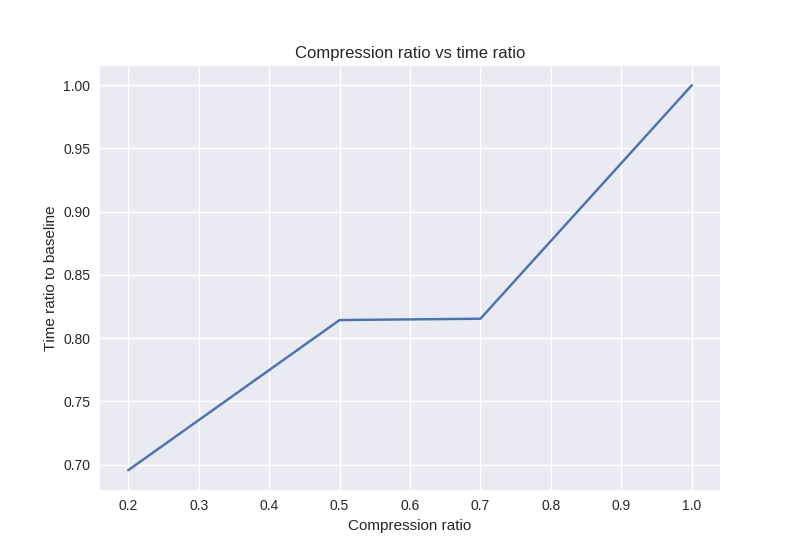
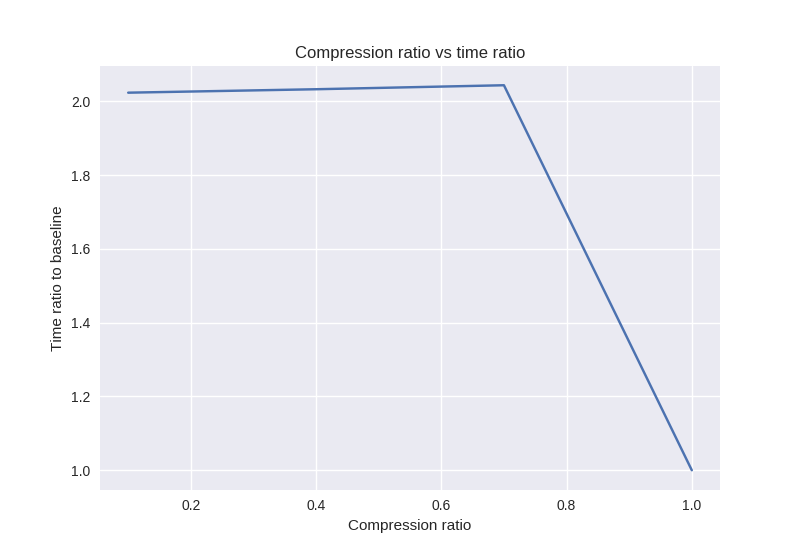
Interim commit: start work on Amazon bloom example.

diff --git a/examples/bloom_embeddings/example.py b/examples/bloom_embeddings/example.py
@@ -1,3 +1,4 @@
+import argparse
 import hashlib
 import json
 import os
@@ -9,6 +10,7 @@ import numpy as np
 from sklearn.model_selection import ParameterSampler
 
 from spotlight.datasets.movielens import get_movielens_dataset
+from spotlight.datasets.amazon import get_amazon_dataset
 from spotlight.cross_validation import user_based_train_test_split
 from spotlight.sequence.implicit import ImplicitSequenceModel
 from spotlight.sequence.representations import LSTMNet
@@ -22,8 +24,8 @@ CUDA = (os.environ.get('CUDA') is not None or
 NUM_SAMPLES = 100
 
 LEARNING_RATES = [1e-4, 5 * 1e-4, 1e-3, 1e-2, 5 * 1e-2, 1e-1]
-LOSSES = ['bpr', 'hinge', 'adaptive_hinge', 'pointwise']
-BATCH_SIZE = [8, 16, 32, 256]
+LOSSES = ['bpr', 'adaptive_hinge']
+BATCH_SIZE = [16, 32, 256]
 EMBEDDING_DIM = [8, 16, 32, 64, 128, 256]
 N_ITER = list(range(5, 20))
 L2 = [1e-6, 1e-5, 1e-4, 1e-3, 1e-2, 0.0]
@@ -43,14 +45,25 @@ class Results:
 
     def save(self, hyperparams, test_mrr, validation_mrr, elapsed):
 
-        result = {'test_mrr': test_mrr,
-                  'validation_mrr': validation_mrr,
-                  'elapsed': elapsed,
-                  'hash': self._hash(hyperparams)}
-        result.update(hyperparams)
+        result = hyperparams.copy()
+
+        result.update({'test_mrr': test_mrr,
+                       'validation_mrr': validation_mrr,
+                       'elapsed': elapsed,
+                       'hash': self._hash(hyperparams)})
 
         with open(self._filename, 'a+') as out:
             out.write(json.dumps(result) + '\n')
+
+    def best_baseline(self):
+
+        results = sorted([x for x in self if x['compression_ratio'] == 1.0],
+                         key=lambda x: -x['test_mrr'])
+
+        if results:
+            return results[0]
+        else:
+            return None
 
     def best(self):
 
@@ -104,7 +117,6 @@ def sample_hyperparameters(random_state, num):
         'learning_rate': LEARNING_RATES,
         'loss': LOSSES,
         'embedding_dim': EMBEDDING_DIM,
-        'num_hash_functions': [2, 3, 4, 5, 6]
     }
 
     sampler = ParameterSampler(space,
@@ -122,7 +134,7 @@ def evaluate_model(hyperparameters, train, test, validation, random_state):
     if h['compression_ratio'] < 1.0:
         item_embeddings = BloomEmbedding(train.num_items, h['embedding_dim'],
                                          compression_ratio=h['compression_ratio'],
-                                         num_hash_functions=h['num_hash_functions'])
+                                         num_hash_functions=4)
         network = LSTMNet(train.num_items, h['embedding_dim'],
                           item_embedding_layer=item_embeddings)
     else:
@@ -148,42 +160,67 @@ def evaluate_model(hyperparameters, train, test, validation, random_state):
     return test_mrr, val_mrr, elapsed
 
 
-def run(train, test, validation, random_state):
+def run(dataset, train, test, validation, random_state):
 
-    results = Results('results.txt')
-    compression_ratios = (0.2, 0.5, 0.7, 1.0)
+    results = Results('{}_results.txt'.format(dataset))
+    compression_ratios = (np.arange(1, 10) / 10).tolist()
 
     best_result = results.best()
 
     if best_result is not None:
         print('Best result: {}'.format(results.best()))
 
+    # Find a good baseline
     for hyperparameters in sample_hyperparameters(random_state, NUM_SAMPLES):
-        for compression_ratio in compression_ratios:
 
-            hyperparameters['compression_ratio'] = compression_ratio
+        print('Fitting {}'.format(hyperparameters))
 
-            if hyperparameters in results:
-                continue
+        hyperparameters['compression_ratio'] = 1.0
+        (test_mrr, val_mrr, elapsed) = evaluate_model(hyperparameters,
+                                                      train,
+                                                      test,
+                                                      validation,
+                                                      random_state)
+        print('Test MRR {} val MRR {}'.format(
+            test_mrr.mean(), val_mrr.mean()
+        ))
 
-            print('Evaluating {}'.format(hyperparameters))
+        results.save(hyperparameters, test_mrr.mean(), val_mrr.mean(), elapsed)
 
-            (test_mrr, val_mrr, elapsed) = evaluate_model(hyperparameters,
-                                                          train,
-                                                          test,
-                                                          validation,
-                                                          random_state)
+    best_baseline = results.best_baseline()
+    print('Best baseline: {}'.format(best_baseline))
 
-            print('Test MRR {} val MRR {}'.format(
-                test_mrr.mean(), val_mrr.mean()
-            ))
+    # Compute compression results
+    for compression_ratio in compression_ratios:
 
-            results.save(hyperparameters, test_mrr.mean(), val_mrr.mean(), elapsed)
+        hyperparameters = best_baseline
+        hyperparameters['compression_ratio'] = compression_ratio
+
+        if hyperparameters in results:
+            continue
+
+        print('Evaluating {}'.format(hyperparameters))
+
+        (test_mrr, val_mrr, elapsed) = evaluate_model(hyperparameters,
+                                                      train,
+                                                      test,
+                                                      validation,
+                                                      random_state)
+        print('Test MRR {} val MRR {}'.format(
+            test_mrr.mean(), val_mrr.mean()
+        ))
+
+        results.save(hyperparameters, test_mrr.mean(), val_mrr.mean(), elapsed)
 
     return results
 
 
 if __name__ == '__main__':
+
+    parser = argparse.ArgumentParser()
+    parser.add_argument('dataset', type=str)
+
+    args = parser.parse_args()
 
     max_sequence_length = 200
     min_sequence_length = 20
@@ -191,7 +228,10 @@ if __name__ == '__main__':
 
     random_state = np.random.RandomState(100)
 
-    dataset = get_movielens_dataset('1M')
+    if args.dataset == 'movielens':
+        dataset = get_movielens_dataset('1M')
+    else:
+        dataset = get_amazon_dataset()
 
     train, rest = user_based_train_test_split(dataset,
                                               random_state=random_state)
@@ -208,4 +248,4 @@ if __name__ == '__main__':
                                         min_sequence_length=min_sequence_length,
                                         step_size=step_size)
 
-    run(train, test, validation, random_state)
+    run(args.dataset, train, test, validation, random_state)

diff --git a/spotlight/datasets/amazon.py b/spotlight/datasets/amazon.py
@@ -1,0 +1,88 @@
+"""
+Utilities for fetching Amazon datasets
+"""
+
+import os
+
+import h5py
+import numpy as np
+import scipy.sparse as sp
+
+from spotlight.datasets import _transport
+from spotlight.interactions import Interactions
+
+
+def _download_amazon():
+
+    extension = '.hdf5'
+    url = ('https://github.com/maciejkula/recommender_datasets/'
+           'releases/download/')
+    version = '0.1.0'
+
+    path = _transport.get_data(os.path.join(url,
+                                            version,
+                                            'amazon_co_purchasing' + extension),
+                               'amazon',
+                               'amazon_co_purchasing{}'.format(extension))
+
+    with h5py.File(path, 'r') as data:
+        return (data['/user_id'][:],
+                data['/item_id'][:],
+                data['/rating'][:],
+                data['/timestamp'][:],
+                data['/features_item_id'][:],
+                data['/features_feature_id'][:])
+
+
+def _filter_by_count(elements, min_count):
+
+    unique_elements, element_counts = np.unique(elements,
+                                                return_counts=True)
+
+    return unique_elements[element_counts >= min_count]
+
+
+def _build_contiguous_map(elements):
+
+    return dict(zip(elements, np.arange(len(elements)) + 1))
+
+
+def _map(elements, mapping):
+
+    for idx, elem in enumerate(elements):
+        elements[idx] = mapping[elem]
+
+    return elements
+
+
+def get_amazon_dataset(min_user_interactions=10, min_item_interactions=10):
+    """
+    """
+
+    (user_ids, item_ids, ratings,
+     timestamps, feature_item_ids,
+     feature_ids) = _download_amazon()
+
+    retain_user_ids = _filter_by_count(user_ids, min_user_interactions)
+    retain_item_ids = _filter_by_count(item_ids, min_item_interactions)
+
+    retain = np.logical_and(np.in1d(user_ids, retain_user_ids),
+                            np.in1d(item_ids, retain_item_ids))
+
+    user_ids = user_ids[retain]
+    item_ids = item_ids[retain]
+    ratings = ratings[retain]
+    timestamps = timestamps[retain]
+
+    retain_user_map = _build_contiguous_map(retain_user_ids)
+    retain_item_map = _build_contiguous_map(retain_item_ids)
+
+    user_ids = _map(user_ids, retain_user_map)
+    item_ids = _map(item_ids, retain_item_map)
+
+    return Interactions(user_ids,
+                        item_ids,
+                        ratings=ratings,
+                        timestamps=timestamps,
+                        num_users=len(retain_user_map) + 1,
+                        num_items=len(retain_item_map) + 1)

diff --git a/examples/bloom_embeddings/plot.py b/examples/bloom_embeddings/plot.py
@@ -1,3 +1,4 @@
+import numpy as np
 import pandas as pd
 
 import matplotlib
@@ -13,9 +14,13 @@ def summarise_results(results):
     sns.set_style("darkgrid")
 
     data = pd.DataFrame([x for x in results])
+    data = data[data['embedding_dim'] <= 64]
 
     best = (data.sort_values('test_mrr', ascending=False)
             .groupby('compression_ratio', as_index=False).first())
+
+    # Normalize per iteration
+    best['elapsed'] = best['elapsed'] / best['n_iter']
 
     print(best)
 
@@ -32,7 +37,9 @@ def summarise_results(results):
     plt.xlabel("Compression ratio")
     plt.title("Compression ratio vs MRR ratio")
 
-    plt.plot(compression_ratio, mrr)
+    plt.plot(compression_ratio, mrr,
+             label='Movielens')
+    plt.legend(loc='lower right')
     plt.savefig('plot.png')
     plt.close()
 
